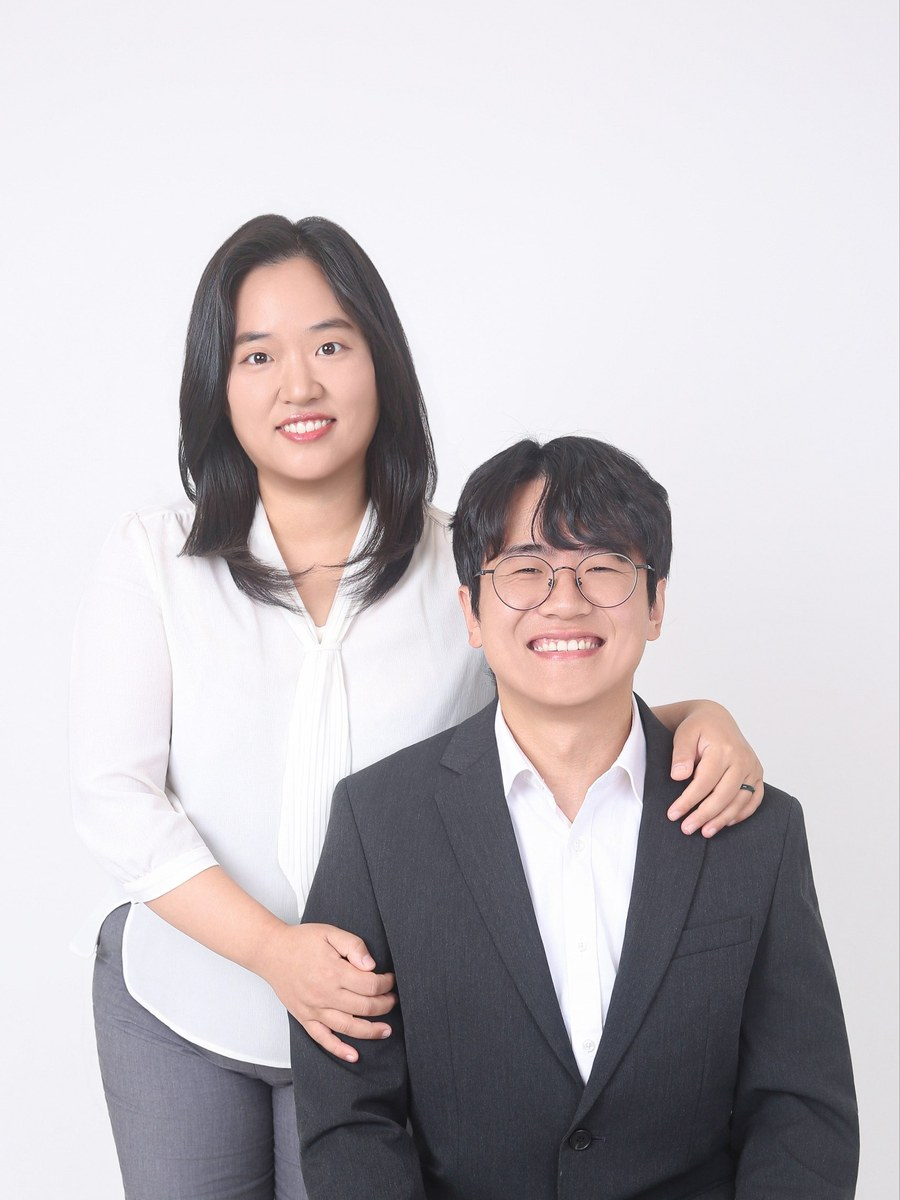
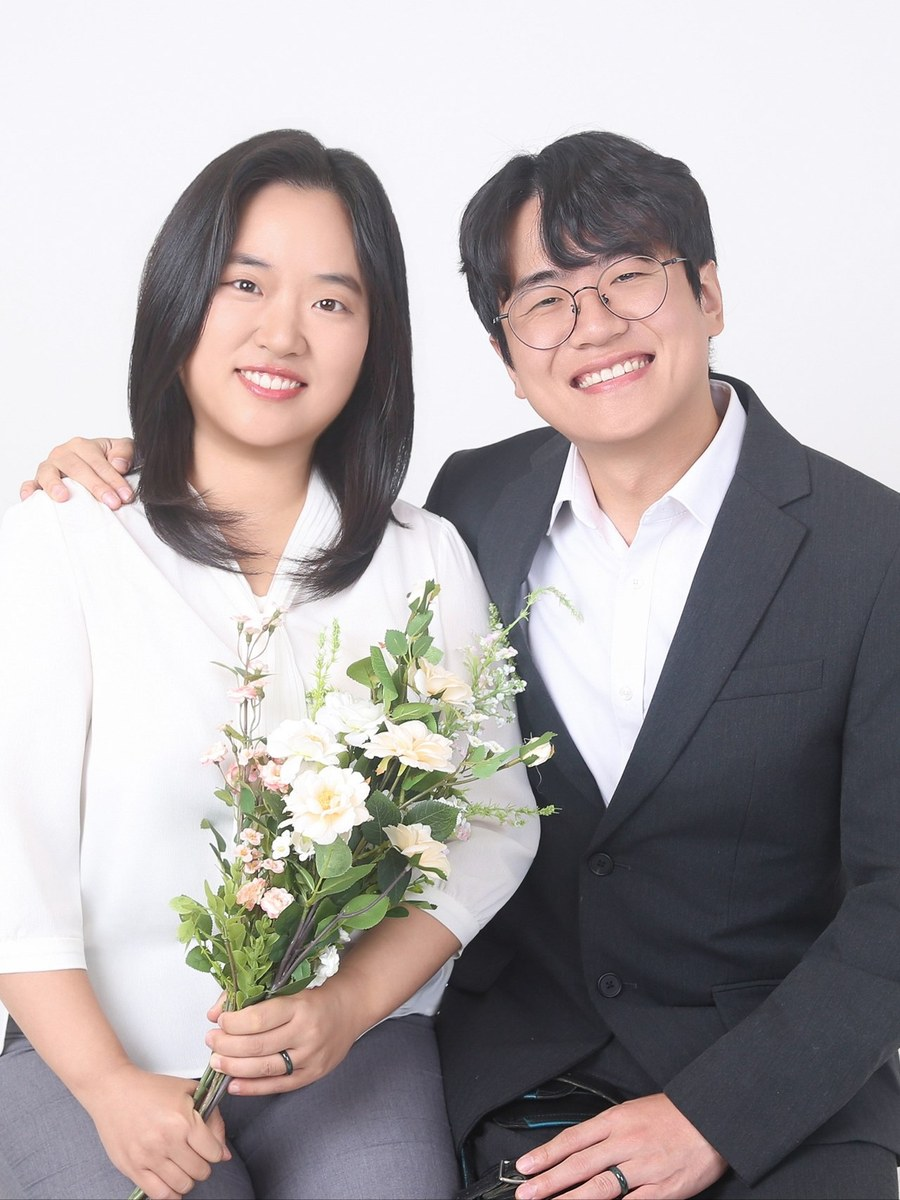
표지를 꽃다발 사진으로 바꾸기
표지와 함께한 날들 첫 장을 서로 바꿨다. 각 사진의 alt 설명도 함께 옮겼다.

Claude-Session: https://claude.ai/code/session_017K9GnC2GtsbrWXMFBbFELB

diff --git a/index.html b/index.html
@@ -812,13 +812,13 @@ const CONFIG = {
      "사진1" 같은 말 대신, 무엇이 보이는지 한 문장으로 적어주세요. */
   coverPhoto: {
     src: "images/cover.jpg",
-    alt: { ko:"흰 셔츠 차림의 이도연이 짙은 정장을 입고 앉은 엄지의 어깨에 손을 얹고, 두 사람 모두 밝은 배경 앞에서 웃고 있습니다.",
-           en:"Doyeon, in a white blouse, rests a hand on Ji's shoulder as he sits in a dark suit; both are smiling against a bright background." }
+    alt: { ko:"이도연이 연한 색 꽃다발을 들고, 엄지가 어깨에 팔을 두른 채 나란히 앉아 함께 웃고 있습니다.",
+           en:"Doyeon holds a pale bouquet while Ji has an arm around her shoulder; the two sit side by side, laughing." }
   },
   gallery: [
     { src:"images/photo-1.jpg",
-      alt:{ ko:"이도연이 연한 색 꽃다발을 들고, 엄지가 어깨에 팔을 두른 채 나란히 앉아 함께 웃고 있습니다.",
-            en:"Doyeon holds a pale bouquet while Ji has an arm around her shoulder; the two sit side by side, laughing." } },
+      alt:{ ko:"흰 셔츠 차림의 이도연이 짙은 정장을 입고 앉은 엄지의 어깨에 손을 얹고, 두 사람 모두 밝은 배경 앞에서 웃고 있습니다.",
+            en:"Doyeon, in a white blouse, rests a hand on Ji's shoulder as he sits in a dark suit; both are smiling against a bright background." } },
     { src:"images/photo-2.jpg",
       alt:{ ko:"두 사람이 서로를 마주 보며 웃고 있습니다. 이도연이 엄지의 어깨에 손을 얹고 있습니다.",
             en:"The two look at each other and laugh, Doyeon's hand on Ji's shoulder." } },
